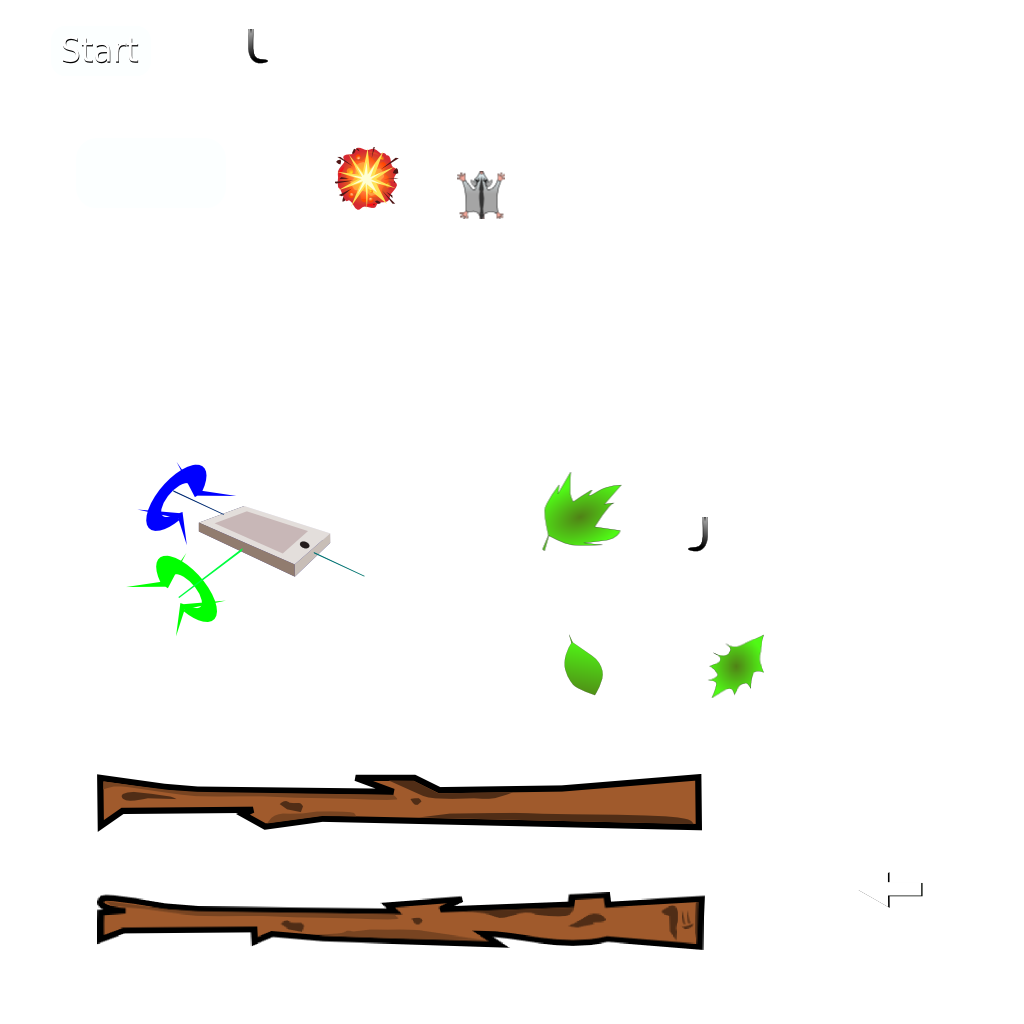
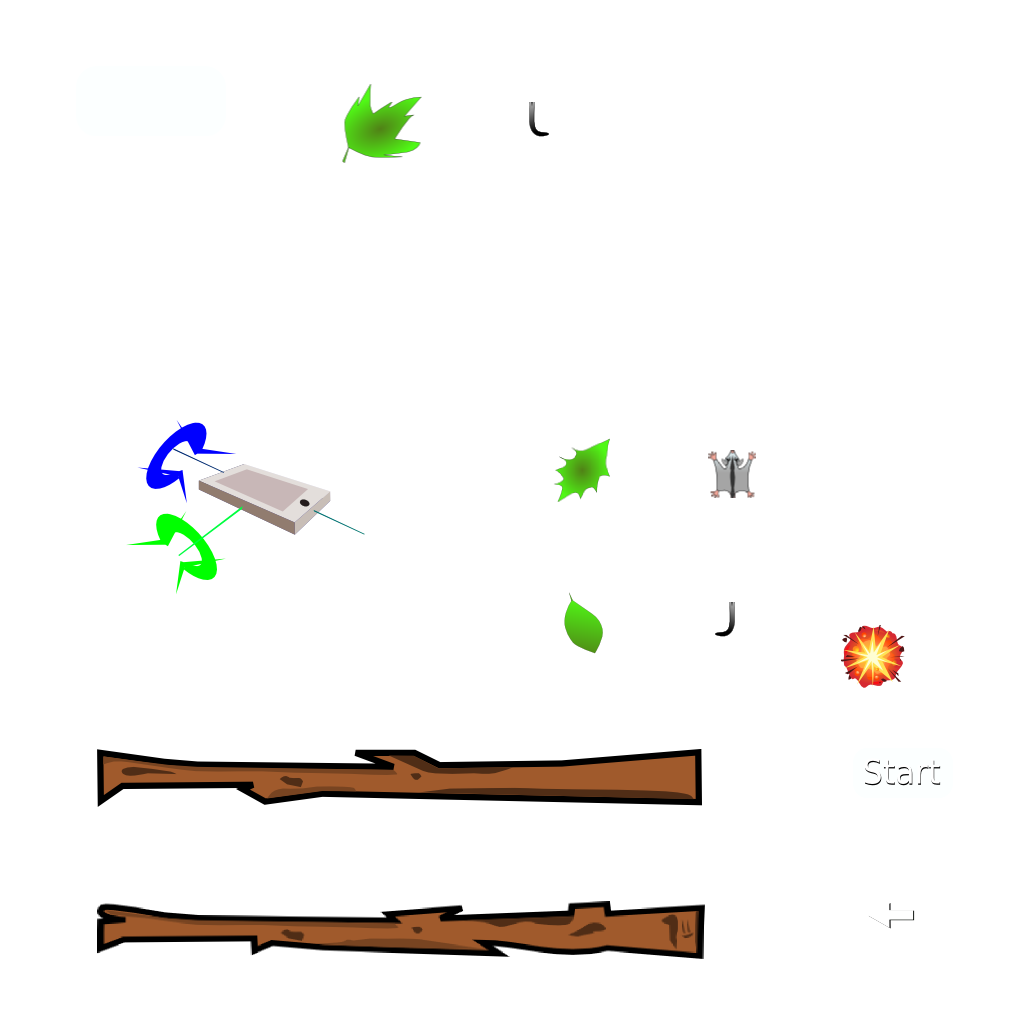
all assets now blur

diff --git a/core/src/com/bondfire/swiftyglider/sprites/Glider.java b/core/src/com/bondfire/swiftyglider/sprites/Glider.java
@@ -5,6 +5,7 @@ import com.badlogic.gdx.Gdx;
 import com.badlogic.gdx.graphics.g2d.SpriteBatch;
 import com.badlogic.gdx.graphics.g2d.TextureRegion;
 import com.badlogic.gdx.graphics.g3d.decals.Decal;
+import com.bondfire.app.bfUtils.BlurrableTextureAtlas;
 import com.bondfire.swiftyglider.SwiftyGlider;
 import com.bondfire.swiftyglider.ui.Box;
 
@@ -54,6 +55,8 @@ public class Glider extends Box {
 
     private float wind;
 
+    BlurrableTextureAtlas atlas;
+
     public Glider(float x, float y) {
 
         System.out.println("New Glider");
@@ -64,10 +67,12 @@ public class Glider extends Box {
         this.width = SCALE_GLIDER * SwiftyGlider.WIDTH;
         this.height = SCALE_GLIDER * SwiftyGlider.WIDTH;
 
-        body = SwiftyGlider.res.getAtlas("sprites").findRegion("glider");
-        explosion = SwiftyGlider.res.getAtlas("sprites").findRegion("explosion");
-        tail_left = SwiftyGlider.res.getAtlas("sprites").findRegion("tail_left");
-        tail_right = SwiftyGlider.res.getAtlas("sprites").findRegion("tail_right");
+        atlas =(BlurrableTextureAtlas)SwiftyGlider.res.getAtlas("sprites");
+
+        body = atlas.findRegion("glider");
+        explosion = atlas.findRegion("explosion");
+        tail_left = atlas.findRegion("tail_left");
+        tail_right = atlas.findRegion("tail_right");
 
         filter = new LinkedList<Float>();
 
@@ -148,12 +153,74 @@ public class Glider extends Box {
     }
 
     public void render(SpriteBatch sb){
+
+        if(!atlas.isBlurrable()){
+            System.out.println("Blurring from Lighs");
+            body.getTexture().getTextureData().prepare();
+            atlas.PrepareBlur(body.getTexture().getTextureData().consumePixmap());
+        }
+        atlas.bind();
+
         if(!(deathTimer > TIME_DEATH)){
             if(death_latch){
-                sb.draw(explosion, x - width / 2, y - height / 2, width, height);
+
+                sb.draw(atlas.tex,
+                        x - width / 2,
+                        y - height / 2,
+                        width / 2,
+                        height / 2,
+                        width ,
+                        height ,
+                        1,
+                        1,
+                        0,// scale
+                        explosion.getRegionX(),
+                        explosion.getRegionY(),
+                        explosion.getRegionWidth(),
+                        explosion.getRegionHeight(),
+                        false,
+                        false);
+
+
+//                sb.draw(explosion, x - width / 2, y - height / 2, width, height);
             }else{
-                sb.draw(collidingWind ? explosion:body, x - width / 2, y - height / 2, (width - width * Math.abs(velocity_X)/1200 ), height);
-                sb.draw(tailFlapping ? tail_left:tail_right, x - width / 2, y - height - height / 2, (width - width * Math.abs(velocity_X)/1200 ), height);
+
+                sb.draw(atlas.tex,
+                        x - width / 2,
+                        y - height / 2,
+                        width / 2,
+                        height / 2,
+                        (width - width * Math.abs(velocity_X)/1200 ) ,
+                        height ,
+                        1,
+                        1,
+                        0,// scale
+                        collidingWind ?  explosion.getRegionX():body.getRegionX(),
+                        collidingWind ?  explosion.getRegionY():body.getRegionY(),
+                        collidingWind ?  explosion.getRegionWidth():body.getRegionWidth(),
+                        collidingWind ?  explosion.getRegionHeight():body.getRegionHeight(),
+                        false,
+                        false);
+
+                sb.draw(atlas.tex,
+                        x - width / 2,
+                        y - height - height / 2,
+                        width / 2,
+                        height / 2,
+                        (width - width * Math.abs(velocity_X)/1200 ) ,
+                        height ,
+                        1,
+                        1,
+                        0,// scale
+                        tailFlapping ?  tail_left.getRegionX():tail_right.getRegionX(),
+                        tailFlapping ?  tail_left.getRegionY():tail_right.getRegionY(),
+                        tailFlapping ?  tail_left.getRegionWidth():tail_right.getRegionWidth(),
+                        tailFlapping ?  tail_left.getRegionHeight():tail_right.getRegionHeight(),
+                        false,
+                        false);
+
+//                sb.draw(collidingWind ? explosion:body, x - width / 2, y - height / 2, (width - width * Math.abs(velocity_X)/1200 ), height);
+//                sb.draw(tailFlapping ? tail_left:tail_right, x - width / 2, y - height - height / 2, (width - width * Math.abs(velocity_X)/1200 ), height);
             }
         }
     }

diff --git a/core/src/com/bondfire/swiftyglider/sprites/Wall.java b/core/src/com/bondfire/swiftyglider/sprites/Wall.java
@@ -3,6 +3,7 @@ package com.bondfire.swiftyglider.sprites;
 import com.badlogic.gdx.graphics.g2d.SpriteBatch;
 import com.badlogic.gdx.graphics.g2d.TextureRegion;
 import com.badlogic.gdx.math.MathUtils;
+import com.bondfire.app.bfUtils.BlurrableTextureAtlas;
 import com.bondfire.swiftyglider.SwiftyGlider;
 import com.bondfire.swiftyglider.ui.Box;
 
@@ -44,14 +45,19 @@ public class Wall extends Box {
     private float rightWallRotate;
     private boolean swap;
 
+    BlurrableTextureAtlas atlas;
+
 
     public Wall( float canvasWidth, float gapLength) {
         this.gapLength = gapLength;
         this.canvasWidth = canvasWidth;
 
+
         this.y = SwiftyGlider.HEIGHT;
-        leftWall = SwiftyGlider.res.getAtlas("sprites").findRegion("wall_left");
-        rightWall = SwiftyGlider.res.getAtlas("sprites").findRegion("wall_right");
+
+        atlas =(BlurrableTextureAtlas) SwiftyGlider.res.getAtlas("sprites");
+        leftWall =atlas.findRegion("wall_left");
+        rightWall = atlas.findRegion("wall_right");
 
         rightWallWidth = SwiftyGlider.WIDTH;
 //        rightWallHeight = rightWall.getRegionHeight();
@@ -70,8 +76,10 @@ public class Wall extends Box {
         this.canvasWidth = canvasWidth;
 
         this.timer = MAX_TIME * startingHeight;
-        leftWall = SwiftyGlider.res.getAtlas("sprites").findRegion("wall_left");
-        rightWall = SwiftyGlider.res.getAtlas("sprites").findRegion("wall_right");
+
+        atlas =(BlurrableTextureAtlas) SwiftyGlider.res.getAtlas("sprites");
+        leftWall =atlas.findRegion("wall_left");
+        rightWall = atlas.findRegion("wall_right");
 
         rightWallWidth = SwiftyGlider.WIDTH;
 //        rightWallHeight = rightWall.getRegionHeight();
@@ -98,7 +106,48 @@ public class Wall extends Box {
 
     public void render(SpriteBatch sb){
 
-        sb.draw(swap ? rightWall:leftWall,
+        if(!atlas.isBlurrable()){
+            System.out.println("Blurring from Lighs");
+            leftWall.getTexture().getTextureData().prepare();
+            atlas.PrepareBlur(leftWall.getTexture().getTextureData().consumePixmap());
+        }
+        atlas.bind();
+
+        sb.draw(atlas.tex,
+                leftWallPosition_X - leftWallWidth/2,
+                y - leftWallHeight / 2,
+                leftWallWidth/2,
+                leftWallHeight/2,
+                leftWallWidth ,
+                leftWallHeight ,
+                1,
+                1,
+                leftWallRotate,// scale
+                swap ? rightWall.getRegionX():leftWall.getRegionX(),
+                swap ? rightWall.getRegionY():leftWall.getRegionY(),
+                swap ? rightWall.getRegionWidth():leftWall.getRegionWidth(),
+                swap ? rightWall.getRegionHeight():leftWall.getRegionHeight(),
+                false,
+                false);
+
+        sb.draw(atlas.tex,
+                rightWallPosition_X - rightWallWidth/2,
+                y - rightWallHeight / 2,
+                rightWallWidth/2,
+                rightWallHeight/2,
+                rightWallWidth ,
+                rightWallHeight ,
+                1,
+                1,
+                rightWallRotate,// scale
+                swap ? leftWall.getRegionX():rightWall.getRegionX(),
+                swap ? leftWall.getRegionY():rightWall.getRegionY(),
+                swap ? leftWall.getRegionWidth():rightWall.getRegionWidth(),
+                swap ? leftWall.getRegionHeight():rightWall.getRegionHeight(),
+                false,
+                false);
+
+       /* sb.draw(swap ? rightWall:leftWall,
                 leftWallPosition_X - leftWallWidth/2,
                 y - leftWallHeight / 2,
                 leftWallWidth/2,
@@ -118,7 +167,7 @@ public class Wall extends Box {
                 rightWallHeight,
                 1,
                 1,
-                leftWallRotate);
+                rightWallRotate);*/
 
 //        sb.draw(leftWall,  leftWallPosition_X - leftWallWidth/2, y - leftWallHeight / 2, leftWallWidth, leftWallHeight);
 //        sb.draw(rightWall, rightWallPosition_X - rightWallWidth/2, y - rightWallHeight / 2, rightWallWidth, rightWallHeight);

diff --git a/core/src/com/bondfire/swiftyglider/sprites/Indicator.java b/core/src/com/bondfire/swiftyglider/sprites/Indicator.java
@@ -3,6 +3,7 @@ package com.bondfire.swiftyglider.sprites;
 import com.badlogic.gdx.graphics.g2d.SpriteBatch;
 import com.badlogic.gdx.graphics.g2d.TextureRegion;
 import com.badlogic.gdx.utils.Logger;
+import com.bondfire.app.bfUtils.BlurrableTextureAtlas;
 import com.bondfire.swiftyglider.SwiftyGlider;
 import com.bondfire.swiftyglider.ui.Box;
 
@@ -19,6 +20,8 @@ public class Indicator extends Box {
 
     private boolean cannotReset = false;
 
+    BlurrableTextureAtlas atlas;
+
     public Indicator(float x, float y, float width, float height) {
 
         this.x = x;
@@ -27,7 +30,8 @@ public class Indicator extends Box {
         this.width = width;
         this.height = height;
 
-        line = SwiftyGlider.res.getAtlas("sprites").findRegion("indicator_line");
+        atlas =(BlurrableTextureAtlas)SwiftyGlider.res.getAtlas("sprites");
+        line = atlas.findRegion("indicator_line");
     }
 
     public void update(float dt){
@@ -42,7 +46,32 @@ public class Indicator extends Box {
     }
 
     public void render(SpriteBatch sb){
-            sb.draw(line, x - width / 2, y - height / 2, width, height);
+        if(!atlas.isBlurrable()){
+            System.out.println("Blurring from Lighs");
+            line.getTexture().getTextureData().prepare();
+            atlas.PrepareBlur(line.getTexture().getTextureData().consumePixmap());
+        }
+        atlas.bind();
+
+        sb.draw(atlas.tex,
+                x - width / 2,
+                y - height / 2,
+                width / 2,
+                height / 2,
+                width,
+                height,
+                1,
+                1,
+                0,// scale
+                line.getRegionX(),
+                line.getRegionY(),
+                line.getRegionWidth(),
+                line.getRegionHeight(),
+                false,
+                false);
+
+
+//        sb.draw(line, x - width / 2, y - height / 2, width, height);
     }
 
     public void reset(){

diff --git a/core/src/com/bondfire/swiftyglider/ui/WhiteButtons.java b/core/src/com/bondfire/swiftyglider/ui/WhiteButtons.java
@@ -34,8 +34,6 @@ public class WhiteButtons extends Box {
         layout = new GlyphLayout();
         layout.setText(bitmapFont,text);
 
-
-
         this.width = layout.width;
         this.height = layout.height;
 
@@ -48,10 +46,9 @@ public class WhiteButtons extends Box {
 
     public void render(SpriteBatch sb){
 
-        textAlpha = 1- (Gdx.input.getX() / (float)Gdx.graphics.getWidth());
+        textAlpha = SwiftyGlider.blurAmount;
 
         if(whiteBackground){
-
             sb.draw(atlas.tex,
                     x - width / 2,
                     y - height / 2,
@@ -71,7 +68,7 @@ public class WhiteButtons extends Box {
 //            sb.draw(background, x- width/2 - 10, y-height/2 -10,width + 20,height + 20);
         }
 
-        bitmapFont.setColor(1.0f,1.0f,1.0f, textAlpha );
+        bitmapFont.setColor(1.0f,1.0f,1.0f,  1 - (textAlpha/4) );
         bitmapFont.draw(sb,text, x - width/2, y + height/2);
 
 

diff --git a/core/src/com/bondfire/swiftyglider/SwiftyGlider.java b/core/src/com/bondfire/swiftyglider/SwiftyGlider.java
@@ -128,7 +128,7 @@ public class SwiftyGlider extends ApplicationAdapter {
 
 		/** load the blur shader */
 		FileHandle[] blurfiles = res.getShaders("blurShader");
-		shader = new ShaderProgram(VERT,FRAG);
+		shader = new ShaderProgram(blurfiles[0],blurfiles[1]);
 		if (!shader.isCompiled()) {
 			Gdx.app.log("ShaderLessons", "Could not compile shaders: "+shader.getLog());
 			Gdx.app.exit();
@@ -149,14 +149,14 @@ public class SwiftyGlider extends ApplicationAdapter {
 		gsm.push(new MenuState(gsm));
 	}
 
-
-
 	/** Game loop libgdx uses 60hz */
 
 
 	@Override
 	public void render () {
-
+		//TODO Remove
+		float bias = MAX_BLUR * (Gdx.input.getX() / (float)Gdx.graphics.getWidth());
+		setBlur(bias);
 
 		/** CLear the screen */
 		Gdx.gl.glClear(GL20.GL_COLOR_BUFFER_BIT);

diff --git a/core/src/com/bondfire/swiftyglider/sprites/Leaf.java b/core/src/com/bondfire/swiftyglider/sprites/Leaf.java
@@ -82,9 +82,6 @@ public class Leaf extends Box {
         }
         atlas.bind();
 
-      /*  float bias = SwiftyGlider.MAX_BLUR * (Gdx.input.getX() / (float)Gdx.graphics.getWidth());
-        SwiftyGlider.shader.setUniformf("bias", bias);*/
-
         sb.draw(atlas.tex,
                 x - width / 2,
                 y - height / 2,
